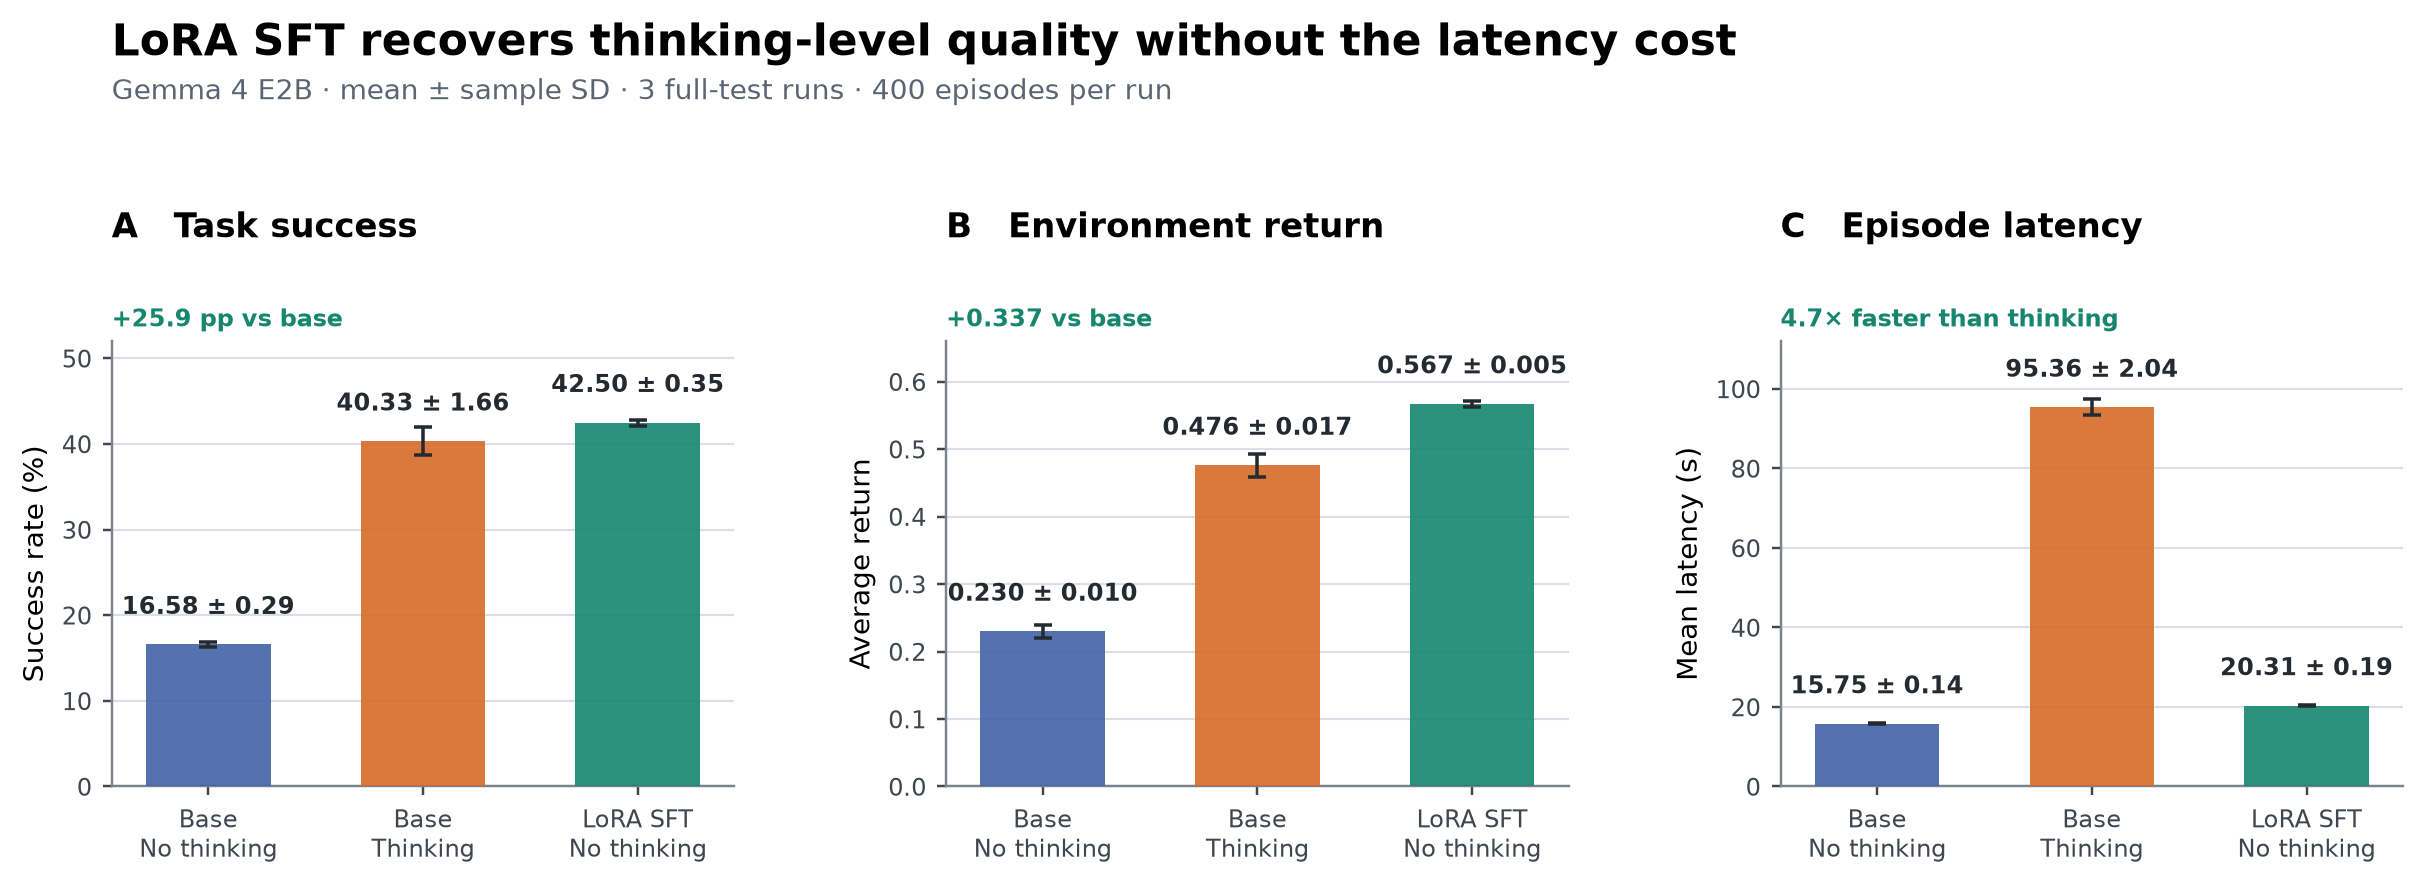
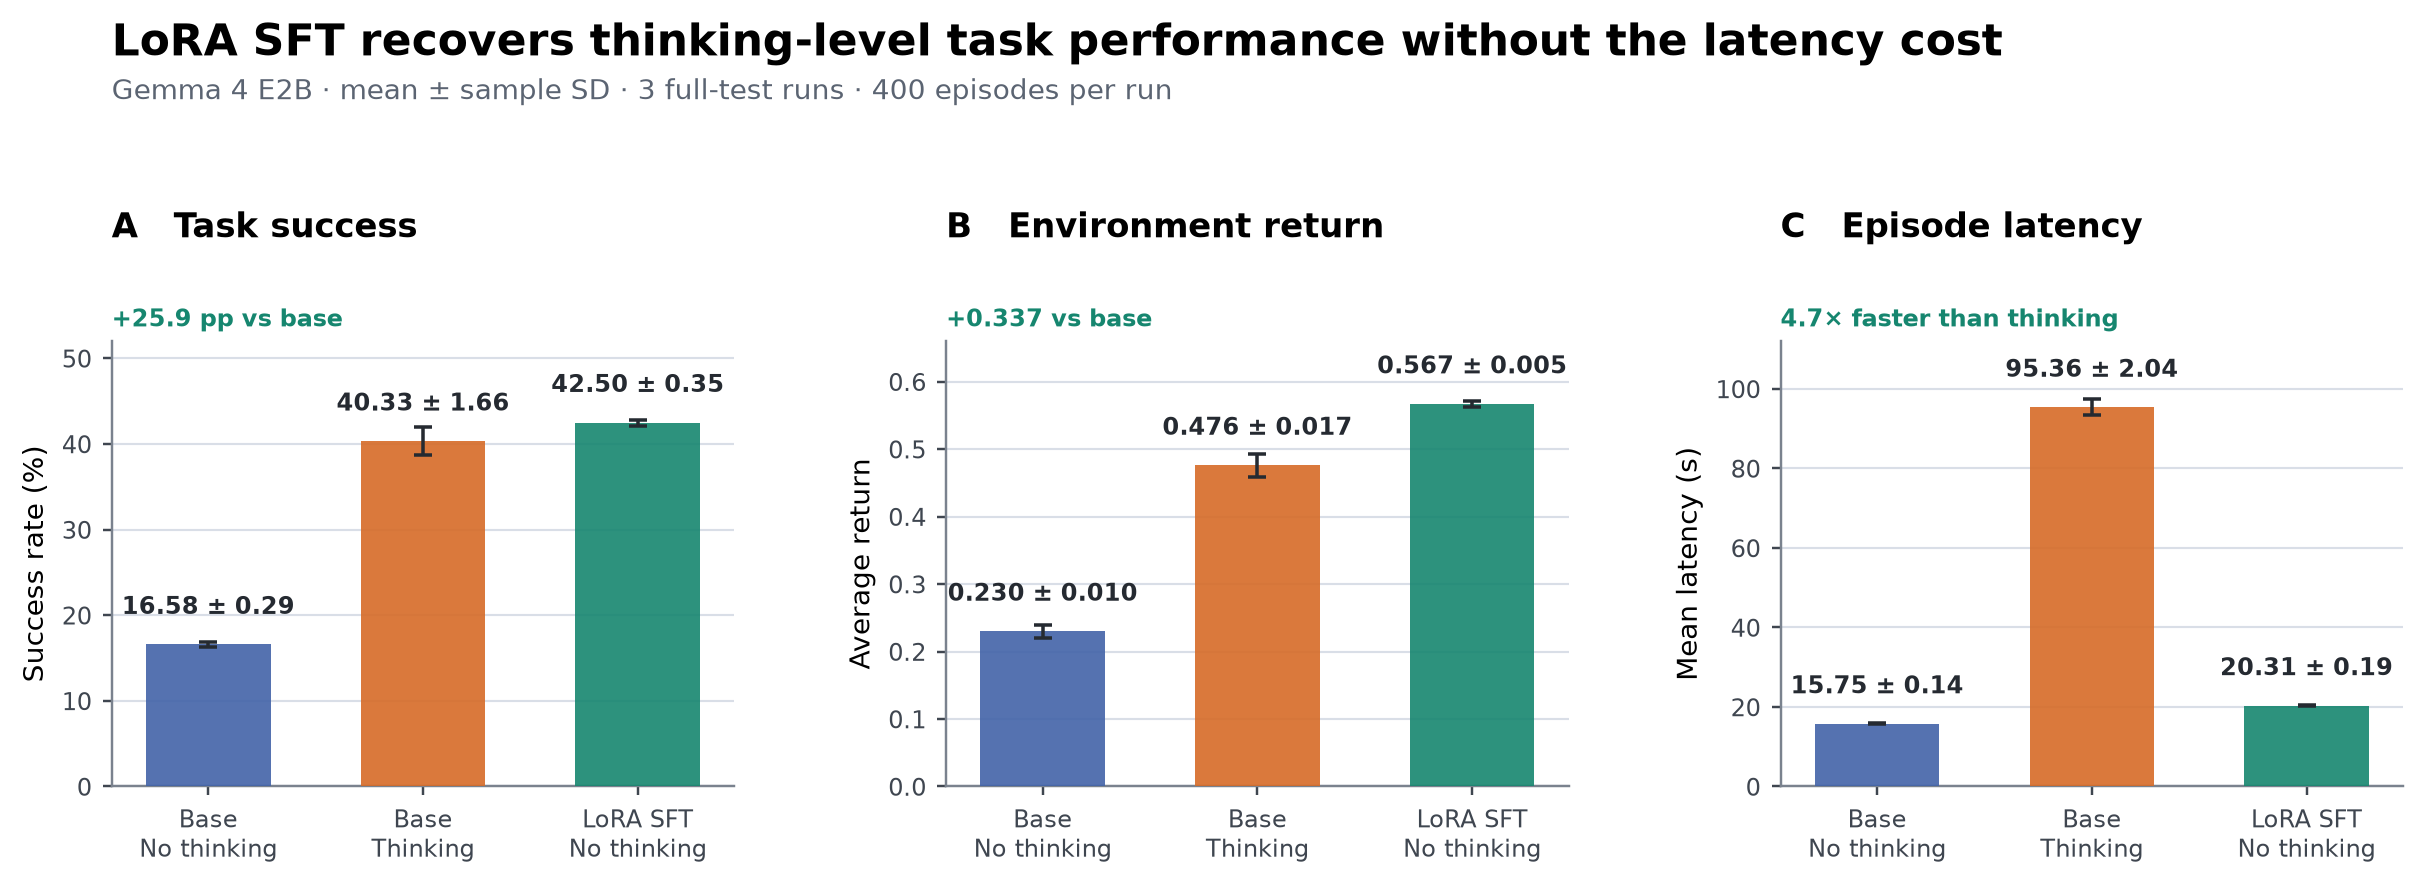
beautify text title

Changed region(s): [[0.3711, 0.0304, 0.8351, 0.0913]]

diff --git a/scripts/plot_evaluation_summary.py b/scripts/plot_evaluation_summary.py
@@ -134,7 +134,7 @@ def main() -> None:
     )
 
     figure.suptitle(
-        "LoRA SFT recovers thinking-level quality without the latency cost",
+        "LoRA SFT recovers thinking-level task performance without the latency cost",
         x=0.06,
         y=0.97,
         ha="left",
